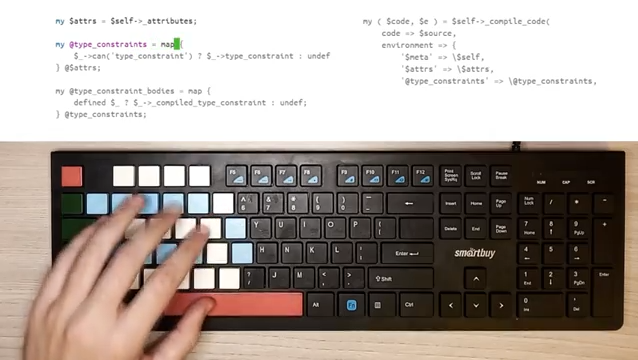
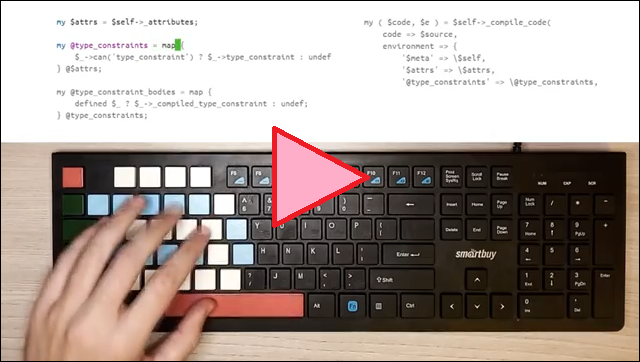
added readme

diff --git a/README.md b/README.md
@@ -3,9 +3,11 @@
 
 # OPRIQ (OPtional RIght Qwerty)
 
-![2 main layers of OPRIQ layout](https://github.com/rmnavr/opriq/blob/main/Docs/Intro.png?raw=true)
-
 [![OPRIQ 1-handed coding](https://github.com/rmnavr/opriq/blob/main/Docs/1h_coding.png?raw=true)](https://ravrlab.ru/csblog/opriq/files/opriq_coding.mp4)
+*(1-handed coding with OPRIQ layout)*
+
+![2 main layers of OPRIQ layout](https://github.com/rmnavr/opriq/blob/main/Docs/Intro.png?raw=true)
+*(2 main layers of OPRIQ layout)*
 
 ---
 
